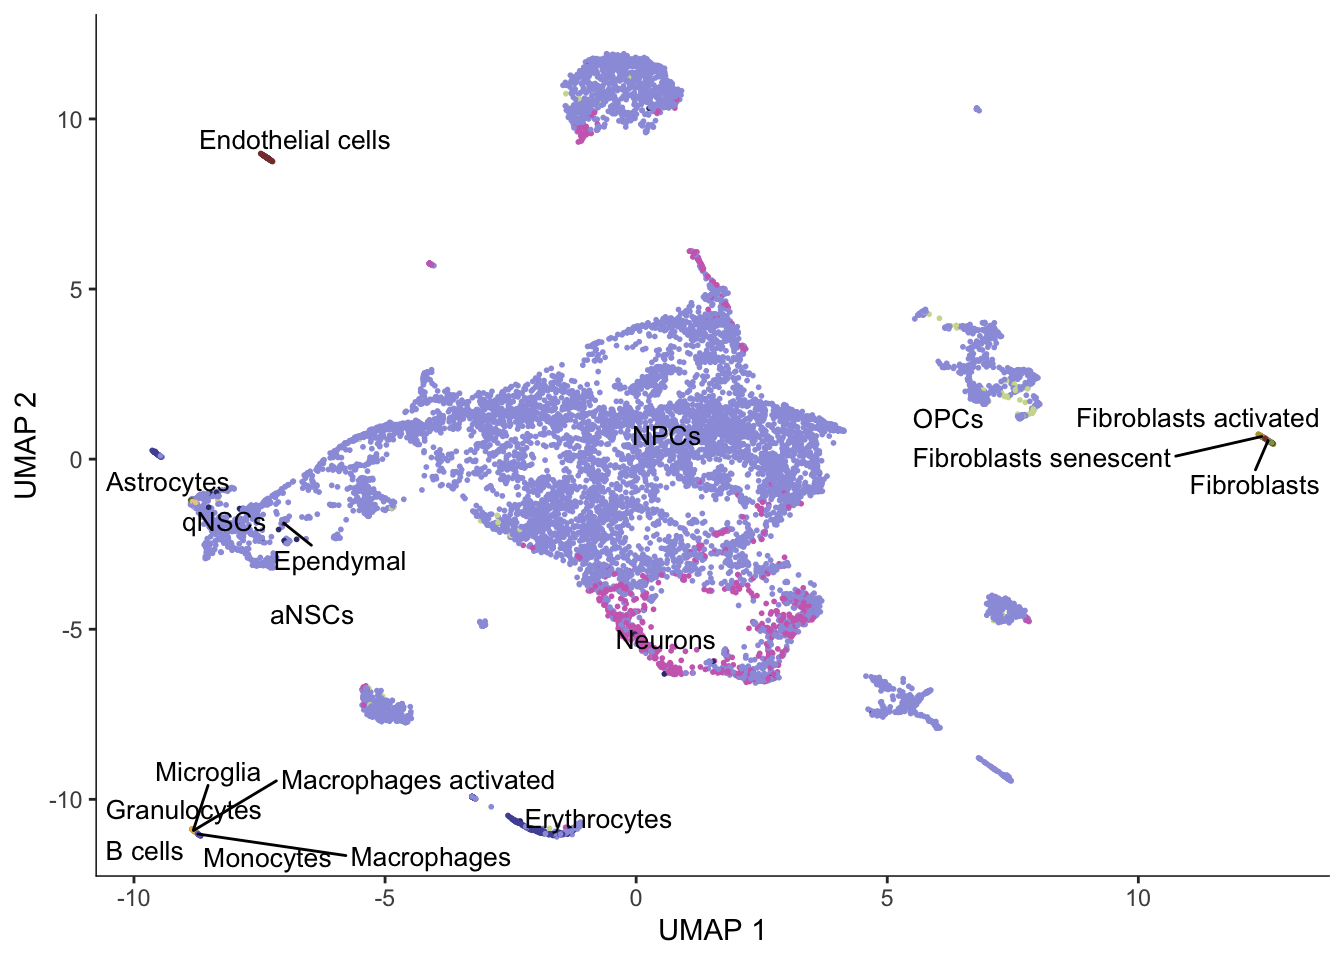
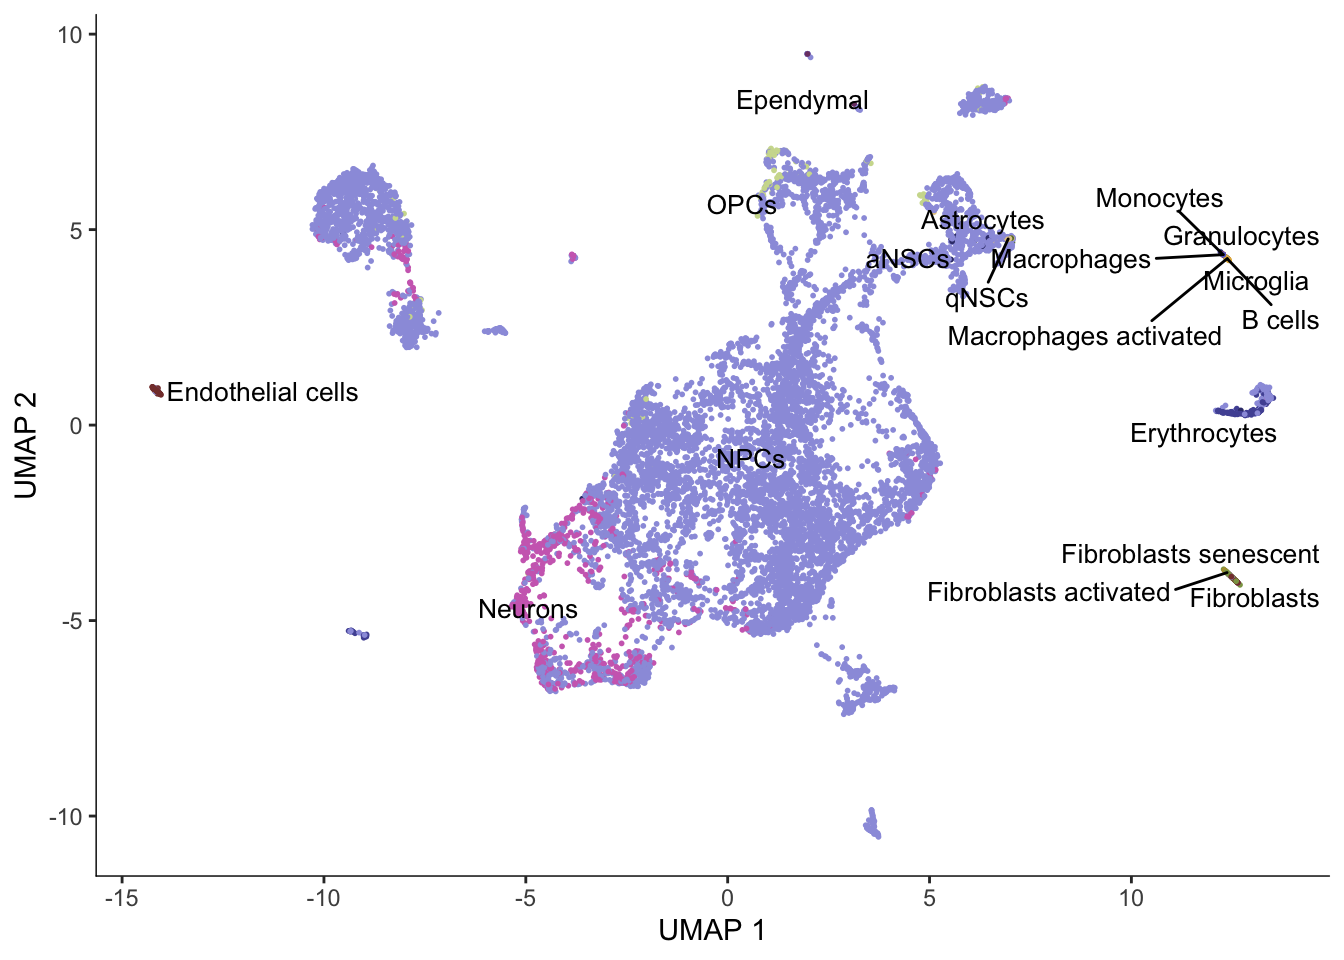
Build site.

diff --git a/docs/monocle3.html b/docs/monocle3.html
@@ -12,7 +12,7 @@
 
 <meta name="author" content="Lambda Moses" />
 
-<meta name="date" content="2019-07-23" />
+<meta name="date" content="2019-08-15" />
 
 <title>Monocle 3</title>
 
@@ -381,7 +381,7 @@ div.section {
 
 <h1 class="title toc-ignore">Monocle 3</h1>
 <h4 class="author">Lambda Moses</h4>
-<h4 class="date">2019-07-23</h4>
+<h4 class="date">2019-08-15</h4>
 
 </div>
 
@@ -406,7 +406,7 @@ div.section {
 <div class="tab-content">
 <div id="summary" class="tab-pane fade in active">
 <p>
-<strong>Last updated:</strong> 2019-07-23
+<strong>Last updated:</strong> 2019-08-15
 </p>
 <p>
 <strong>Checks:</strong> <span class="glyphicon glyphicon-ok text-success" aria-hidden="true"></span> 7 <span class="glyphicon glyphicon-exclamation-sign text-danger" aria-hidden="true"></span> 0
@@ -497,10 +497,10 @@ This reproducible <a href="http://rmarkdown.rstudio.com">R Markdown</a> analysis
 <div class="panel panel-default">
 <div class="panel-heading">
 <p class="panel-title">
-<a data-toggle="collapse" data-parent="#workflowr-checks" href="#strongRepositoryversionstrongahrefhttpsgithubcomBUStoolsBUSnotebooksRtree5cb1030ac3cbc417d0f67f553ee3a7e7044a8d9ctargetblank5cb1030a"> <span class="glyphicon glyphicon-ok text-success" aria-hidden="true"></span> <strong>Repository version:</strong> <a href="https://github.com/BUStools/BUS_notebooks_R/tree/5cb1030ac3cbc417d0f67f553ee3a7e7044a8d9c" target="_blank">5cb1030</a> </a>
+<a data-toggle="collapse" data-parent="#workflowr-checks" href="#strongRepositoryversionstrongahrefhttpsgithubcomBUStoolsBUSnotebooksRtree1cafb2f3e721c2d7ac26ed796a88e111ac19fa33targetblank1cafb2fa"> <span class="glyphicon glyphicon-ok text-success" aria-hidden="true"></span> <strong>Repository version:</strong> <a href="https://github.com/BUStools/BUS_notebooks_R/tree/1cafb2f3e721c2d7ac26ed796a88e111ac19fa33" target="_blank">1cafb2f</a> </a>
 </p>
 </div>
[2 lines of base64/hex data omitted]
 <div class="panel-body">
 <p>
 Great! You are using Git for version control. Tracking code development and connecting the code version to the results is critical for reproducibility. The version displayed above was the version of the Git repository at the time these results were generated. <br><br> Note that you need to be careful to ensure that all relevant files for the analysis have been committed to Git prior to generating the results (you can use <code>wflow_publish</code> or <code>wflow_git_commit</code>). workflowr only checks the R Markdown file, but you know if there are other scripts or data files that it depends on. Below is the status of the Git repository when the results were generated:
@@ -510,6 +510,7 @@ Ignored files:
     Ignored:    .Rhistory
     Ignored:    .Rproj.user/
     Ignored:    BUS_notebooks_R.Rproj
+    Ignored:    analysis/figure/
     Ignored:    data/whitelist_v3.txt.gz
     Ignored:    output/out_pbmc1k/
 
@@ -554,6 +555,57 @@ Message
 </tr>
 </thead>
 <tbody>
+<tr>
+<td>
+Rmd
+</td>
+<td>
+<a href="https://github.com/BUStools/BUS_notebooks_R/blob/1cafb2f3e721c2d7ac26ed796a88e111ac19fa33/analysis/monocle3.Rmd" target="_blank">1cafb2f</a>
+</td>
+<td>
+Lambda Moses
+</td>
+<td>
+2019-08-16
+</td>
+<td>
+Rebuilt with Ensembl 97
+</td>
+</tr>
+<tr>
+<td>
+Rmd
+</td>
+<td>
+<a href="https://github.com/BUStools/BUS_notebooks_R/blob/32adc25610d14f630f42aee00ed3a87a337d529a/analysis/monocle3.Rmd" target="_blank">32adc25</a>
+</td>
+<td>
+Lior Pachter
+</td>
+<td>
+2019-07-26
+</td>
+<td>
+Update monocle3.Rmd
+</td>
+</tr>
+<tr>
+<td>
+html
+</td>
+<td>
+<a href="https://rawcdn.githack.com/BUStools/BUS_notebooks_R/5ebb54700e7490de6057bd48b8d7e6eb254901f8/docs/monocle3.html" target="_blank">5ebb547</a>
+</td>
+<td>
+Lambda Moses
+</td>
+<td>
+2019-07-23
+</td>
+<td>
+Build site.
+</td>
+</tr>
 <tr>
 <td>
 Rmd
@@ -648,7 +700,7 @@ Monocle 3 notebook
 </div>
 <div id="introduction" class="section level1">
 <h1>Introduction</h1>
-<p>This notebook does pseudotime analysis of the <a href="https://support.10xgenomics.com/single-cell-gene-expression/datasets/3.0.0/neuron_10k_v3">10x 10k neurons from an E18 mouse</a> with <a href="https://cole-trapnell-lab.github.io/monocle3/">Monocle 3</a>. Please refer to the <a href="https://cole-trapnell-lab.github.io/monocle3/monocle3_docs/#installing-monocle">Monocle 3 website</a> for installation instruction. Gdal is required for Monocle 3 due to the <code>sf</code> dependency. The Python package <code>louvain</code> (which requires Python <code>igraph</code>, which requires compilation) is recommended, though not strictly required.</p>
+<p>This notebook does pseudotime analysis of the <a href="https://support.10xgenomics.com/single-cell-gene-expression/datasets/3.0.0/neuron_10k_v3">10x 10k neurons from an E18 mouse</a> using <a href="https://cole-trapnell-lab.github.io/monocle3/">Monocle 3</a>, and starting with the <a href="https://www.kallistobus.tools/">kallisto | bustools workflow</a>. Please refer to the <a href="https://cole-trapnell-lab.github.io/monocle3/monocle3_docs/#installing-monocle">Monocle 3 website</a> for installation instruction. Gdal is required for Monocle 3 due to the <code>sf</code> dependency. The Python package <code>louvain</code> (which requires Python <code>igraph</code>, which requires compilation) is recommended, though not strictly required.</p>
 <p>Monocle 3 has a few improvements compared to Monocle 2: Monocle 3 infers trajectory much faster, supports partitioning of the data into separate trajectories in case of different cell lineages, supports large datasets on disk, allows cycles in the trajectory, and supports 3D plotting. Monocle 3 has been used on over 2 million cells for the <a href="https://www.nature.com/articles/s41586-019-0969-x?WT.ec_id=NATURE-201902&amp;sap-outbound-id=3D6B78CB95C498488E0AB2A140F1B7A311607DA1">Mouse Organogenesis Cell Atlas (MOCA)</a>.</p>
 <p>The gene count matrix of the 10k neuron dataset has already been generated with the kallisto | bustools pipeline and filtered for the <a href="https://bustools.github.io/BUS_notebooks_R/monocle2.html">Monocle 2 notebook</a>. Cell types have also been annotated with <code>SingleR</code> in that notebook. Please refer to the first 3 main sections of that notebook for instructions on how to use kallisto | bustools, remove empty droplets, and annotate cell types. So this notebook will start with Monocle 3 analysis right away.</p>
 <p>The package <code>biomaRt</code> is from Bioconductor. <code>BUSpaRse</code> and <code>monocle3</code> are on GitHub. Packages <code>tidyverse</code> and <code>ggsci</code> (just for the D3 palette) are on CRAN.</p>
@@ -661,52 +713,56 @@ library(ggsci)</code></pre>
 <div id="create-a-cell_data_set-object" class="section level1">
 <h1>Create a <code>cell_data_set</code> object</h1>
 <p>The filtered gene count matrix and the cell annotation were saved from the Monocle 2 notebook.</p>
-<pre class="r"><code>annot &lt;- readRDS(&quot;./output/neuron10k/cell_types.rds&quot;)
+<pre class="r"><code>annot &lt;- readRDS(&quot;./output/neuron10k/cell_type.rds&quot;)
 mat_filtered &lt;- readRDS(&quot;./output/neuron10k/mat_filtered.rds&quot;)</code></pre>
 <p>Just to show the structures of those 2 objects:</p>
 <pre class="r"><code>dim(mat_filtered)</code></pre>
-<pre><code>[1] 23342 11031</code></pre>
+<pre><code>[1] 23516 11037</code></pre>
 <pre class="r"><code>class(mat_filtered)</code></pre>
 <pre><code>[1] &quot;dgCMatrix&quot;
 attr(,&quot;package&quot;)
 [1] &quot;Matrix&quot;</code></pre>
 <p>Row names are Ensembl gene IDs.</p>
 <pre class="r"><code>head(rownames(mat_filtered))</code></pre>
-<pre><code>[1] &quot;ENSMUSG00000094619.2&quot;  &quot;ENSMUSG00000095646.1&quot;  &quot;ENSMUSG00000073406.10&quot;
-[4] &quot;ENSMUSG00000079491.9&quot;  &quot;ENSMUSG00000046808.17&quot; &quot;ENSMUSG00000092300.7&quot; </code></pre>
+<pre><code>[1] &quot;ENSMUSG00000094619.2&quot;  &quot;ENSMUSG00000095646.1&quot;  &quot;ENSMUSG00000092401.3&quot; 
+[4] &quot;ENSMUSG00000109389.1&quot;  &quot;ENSMUSG00000092212.3&quot;  &quot;ENSMUSG00000079293.11&quot;</code></pre>
 <pre class="r"><code>head(colnames(mat_filtered))</code></pre>
 <pre><code>[1] &quot;AAACCCACACGCGGTT&quot; &quot;AAACCCACAGCATACT&quot; &quot;AAACCCACATACCATG&quot;
 [4] &quot;AAACCCAGTCGCACAC&quot; &quot;AAACCCAGTGCACATT&quot; &quot;AAACCCAGTGGTAATA&quot;</code></pre>
 <pre class="r"><code>str(annot)</code></pre>
 <pre><code>List of 10
- $ scores       : num [1:11031, 1:28] 0.188 0.192 0.183 0.265 0.186 ...
+ $ scores       : num [1:11037, 1:28] 0.188 0.194 0.182 0.267 0.187 ...
   ..- attr(*, &quot;dimnames&quot;)=List of 2
-  .. ..$ : chr [1:11031] &quot;AAACCCACACGCGGTT&quot; &quot;AAACCCACAGCATACT&quot; &quot;AAACCCACATACCATG&quot; &quot;AAACCCAGTCGCACAC&quot; ...
+  .. ..$ : chr [1:11037] &quot;AAACCCACACGCGGTT&quot; &quot;AAACCCACAGCATACT&quot; &quot;AAACCCACATACCATG&quot; &quot;AAACCCAGTCGCACAC&quot; ...
   .. ..$ : chr [1:28] &quot;Adipocytes&quot; &quot;aNSCs&quot; &quot;Astrocytes&quot; &quot;Astrocytes activated&quot; ...
- $ labels       : chr [1:11031, 1] &quot;NPCs&quot; &quot;NPCs&quot; &quot;NPCs&quot; &quot;NPCs&quot; ...
+ $ labels       : chr [1:11037, 1] &quot;NPCs&quot; &quot;NPCs&quot; &quot;NPCs&quot; &quot;NPCs&quot; ...
   ..- attr(*, &quot;dimnames&quot;)=List of 2
-  .. ..$ : chr [1, 1:11031] &quot;AAACCCACACGCGGTT&quot; &quot;AAACCCACAGCATACT&quot; &quot;AAACCCACATACCATG&quot; &quot;AAACCCAGTCGCACAC&quot; ...
+  .. ..$ : chr [1, 1:11037] &quot;AAACCCACACGCGGTT&quot; &quot;AAACCCACAGCATACT&quot; &quot;AAACCCACATACCATG&quot; &quot;AAACCCAGTCGCACAC&quot; ...
   .. ..$ : NULL
- $ r            : num [1:11031, 1:358] 0.186 0.195 0.18 0.25 0.17 ...
+ $ r            : num [1:11037, 1:358] 0.187 0.197 0.179 0.251 0.171 ...
   ..- attr(*, &quot;dimnames&quot;)=List of 2
-  .. ..$ : chr [1:11031] &quot;AAACCCACACGCGGTT&quot; &quot;AAACCCACAGCATACT&quot; &quot;AAACCCACATACCATG&quot; &quot;AAACCCAGTCGCACAC&quot; ...
+  .. ..$ : chr [1:11037] &quot;AAACCCACACGCGGTT&quot; &quot;AAACCCACAGCATACT&quot; &quot;AAACCCACATACCATG&quot; &quot;AAACCCAGTCGCACAC&quot; ...
   .. ..$ : chr [1:358] &quot;ERR525589Aligned&quot; &quot;ERR525592Aligned&quot; &quot;SRR275532Aligned&quot; &quot;SRR275534Aligned&quot; ...
- $ pval         : Named num [1:11031] 0.0396 0.0582 0.0366 0.0107 0.0329 ...
-  ..- attr(*, &quot;names&quot;)= chr [1:11031] &quot;AAACCCACACGCGGTT&quot; &quot;AAACCCACAGCATACT&quot; &quot;AAACCCACATACCATG&quot; &quot;AAACCCAGTCGCACAC&quot; ...
- $ labels1      : chr [1:11031, 1] &quot;NPCs&quot; &quot;NPCs&quot; &quot;NPCs&quot; &quot;NPCs&quot; ...
+ $ pval         : Named num [1:11037] 0.0428 0.058 0.0383 0.0111 0.0327 ...
+  ..- attr(*, &quot;names&quot;)= chr [1:11037] &quot;AAACCCACACGCGGTT&quot; &quot;AAACCCACAGCATACT&quot; &quot;AAACCCACATACCATG&quot; &quot;AAACCCAGTCGCACAC&quot; ...
+ $ labels1      : chr [1:11037, 1] &quot;NPCs&quot; &quot;NPCs&quot; &quot;NPCs&quot; &quot;NPCs&quot; ...
   ..- attr(*, &quot;dimnames&quot;)=List of 2
-  .. ..$ : chr [1:11031] &quot;AAACCCACACGCGGTT&quot; &quot;AAACCCACAGCATACT&quot; &quot;AAACCCACATACCATG&quot; &quot;AAACCCAGTCGCACAC&quot; ...
+  .. ..$ : chr [1:11037] &quot;AAACCCACACGCGGTT&quot; &quot;AAACCCACAGCATACT&quot; &quot;AAACCCACATACCATG&quot; &quot;AAACCCAGTCGCACAC&quot; ...
   .. ..$ : NULL
- $ labels1.thres: chr [1:11031] &quot;NPCs&quot; &quot;X&quot; &quot;NPCs&quot; &quot;NPCs&quot; ...
- $ cell.names   : chr [1:11031] &quot;AAACCCACACGCGGTT&quot; &quot;AAACCCACAGCATACT&quot; &quot;AAACCCACATACCATG&quot; &quot;AAACCCAGTCGCACAC&quot; ...
+ $ labels1.thres: chr [1:11037] &quot;NPCs&quot; &quot;X&quot; &quot;NPCs&quot; &quot;NPCs&quot; ...
+ $ cell.names   : chr [1:11037] &quot;AAACCCACACGCGGTT&quot; &quot;AAACCCACAGCATACT&quot; &quot;AAACCCACATACCATG&quot; &quot;AAACCCAGTCGCACAC&quot; ...
  $ quantile.use : num 0.8
  $ types        : chr [1:358] &quot;Adipocytes&quot; &quot;Adipocytes&quot; &quot;Adipocytes&quot; &quot;Adipocytes&quot; ...
  $ method       : chr &quot;single&quot;</code></pre>
 <p>Since we will do differential expression and gene symbols are more human readable than Ensembl gene IDs, we will get the corresponding gene symbols from Ensembl.</p>
 <pre class="r"><code>gns &lt;- tr2g_ensembl(species = &quot;Mus musculus&quot;, use_gene_name = TRUE, 
-                    ensembl_version = 94)[,c(&quot;gene&quot;, &quot;gene_name&quot;)] %&gt;% 
+                    ensembl_version = 97)[,c(&quot;gene&quot;, &quot;gene_name&quot;)] %&gt;% 
   distinct()</code></pre>
 <pre><code>Querying biomart for transcript and gene IDs of Mus musculus</code></pre>
+<pre><code>Note: requested host was redirected from
+http://jul2019.archive.ensembl.org to https://www.ensembl.org:443/biomart/martservice</code></pre>
+<pre><code>This often occurs when connecting to the archive URL for the current Ensembl release</code></pre>
+<pre><code>You can check the current version number using listEnsemblArchives()</code></pre>
 <pre><code>Cache found</code></pre>
 <p>Just like how the <code>Seurat</code> workflow is centered around the <code>Seurat</code> object, Monocle 3 workflow is centered around the <code>cell_data_set</code> object. To create a <code>cell_data_set</code> object, we at least need the gene count matrix, and optionally need cell and gene metadata. Note that this is different from the <code>CellDataSet</code> object for Monocle 2. Cell metadata must have the column <code>cell</code>, for cell names or barcodes. Gene metadata must have the <code>id</code> column for gene ID (here Ensembl gene ID), and a column <code>gene_short_name</code>, for gene symbols, is recommended and is required for some functions. In addition, cell metadata must have cell names as row names and gene metadata must have gene IDs as gene names when initializing the <code>cell_data_set</code> object.</p>
 <pre class="r"><code>cell_meta &lt;- data.frame(cell = colnames(mat_filtered),
@@ -854,7 +910,7 @@ Lambda Moses
 </div>
 <p>Monocle 3 does Louvain clustering and partitions the dataset for separate trajectories based on Louvain clustering.</p>
 <pre class="r"><code>cds &lt;- cluster_cells(cds)
-plot_cells(cds, color_cells_by = &quot;partition&quot;, group_cells_by = &quot;partition&quot;,
+plot_cells(cds, color_cells_by = &quot;partition&quot;, group_cells_by = &quot;partition&quot;, 
            group_label_size = 4)</code></pre>
 <pre><code>No trajectory to plot. Has learn_graph() been called yet?</code></pre>
 <p><img src="figure/monocle3.Rmd/part-1.png" width="672" style="display: block; margin: auto;" /></p>
@@ -895,13 +951,56 @@ Lambda Moses
 </table>
 </div>
 </div>
+<pre class="r"><code>plot_cells(cds, color_cells_by = &quot;cluster&quot;, group_cells_by = &quot;cluster&quot;, 
+           group_label_size = 4)</code></pre>
+<pre><code>No trajectory to plot. Has learn_graph() been called yet?</code></pre>
+<p><img src="figure/monocle3.Rmd/unnamed-chunk-8-1.png" width="672" style="display: block; margin: auto;" /></p>
+<p>
+<button type="button" class="btn btn-default btn-xs btn-workflowr btn-workflowr-fig" data-toggle="collapse" data-target="#fig-unnamed-chunk-8-1">
+Past versions of unnamed-chunk-8-1.png
+</button>
+</p>
+<div id="fig-unnamed-chunk-8-1" class="collapse">
+<div class="table-responsive">
+<table class="table table-condensed table-hover">
+<thead>
+<tr>
+<th>
+Version
+</th>
+<th>
+Author
+</th>
+<th>
+Date
+</th>
+</tr>
+</thead>
+<tbody>
+<tr>
+<td>
+<a href="https://github.com/BUStools/BUS_notebooks_R/blob/002b84d7ef371d2c72be546fa303cbd0e6c2c971/docs/figure/monocle3.Rmd/unnamed-chunk-8-1.png" target="_blank">002b84d</a>
+</td>
+<td>
+Lambda Moses
+</td>
+<td>
+2019-07-23
+</td>
+</tr>
+</tbody>
+</table>
+</div>
+</div>
 </div>
 <div id="trajectory-inference" class="section level1">
 <h1>Trajectory inference</h1>
 <p>Monocle 3’s trajectory inference is inspired by PAGA.</p>
-<pre class="r"><code>cds &lt;- learn_graph(cds, verbose = FALSE)</code></pre>
-<pre><code>Warning in min(data_df$weight[data_df$weight &gt; 0]): no non-missing
-arguments to min; returning Inf</code></pre>
+<pre class="r"><code>cds &lt;- learn_graph(cds, verbose = FALSE, 
+                   learn_graph_control = list(minimal_branch_len = 7,
+                                              geodesic_distance_ratio = 0.5))</code></pre>
+<pre><code>Warning in louvain_clustering(data, pd[row.names(data), ], k = k, weight = weight, : RANN counts the point itself, k must be smaller than
+the total number of points - 1 (all other points) - 1 (itself)!</code></pre>
 <pre class="r"><code>plot_cells(cds, color_cells_by = &quot;cell_type&quot;, label_groups_by_cluster = FALSE,
            group_label_size = 3.5, graph_label_size = 2) +
   scale_color_d3(palette = &quot;category20b&quot;)</code></pre>
@@ -989,7 +1088,7 @@ Lambda Moses
 <p>For the trajectory for which pseudotime is computed, Monocle 3 can find genes differentially expressed along the trajectory.</p>
 <pre class="r"><code>de_res &lt;- graph_test(cds, neighbor_graph = &quot;principal_graph&quot;, cores = 3)</code></pre>
 <p>These are some of the most significant genes differentially expressed along the trajectory.</p>
-<pre class="r"><code>genes_plt &lt;- c(&quot;mt-Nd6&quot;, &quot;Actr1a&quot;, &quot;Ss18&quot;, &quot;Hspa12a&quot;)
+<pre class="r"><code>genes_plt &lt;- c(&quot;Ube2c&quot;, &quot;Mrps12&quot;, &quot;Hspa12a&quot;, &quot;Igfbp3&quot;)
 plot_cells(cds, genes = genes_plt,
            show_trajectory_graph = FALSE,
            label_cell_groups = FALSE,
@@ -1042,7 +1141,7 @@ Lambda Moses
 <pre class="r"><code>sessionInfo()</code></pre>
 <pre><code>R version 3.6.1 (2019-07-05)
 Platform: x86_64-apple-darwin15.6.0 (64-bit)
-Running under: macOS Mojave 10.14.5
+Running under: macOS Mojave 10.14.6
 
 Matrix products: default
 BLAS:   /Library/Frameworks/R.framework/Versions/3.6/Resources/lib/libRblas.0.dylib
@@ -1060,8 +1159,8 @@ other attached packages:
  [3] stringr_1.4.0               dplyr_0.8.3                
  [5] purrr_0.3.2                 readr_1.3.1                
  [7] tidyr_0.8.3                 tibble_2.1.3               
- [9] ggplot2_3.2.0               tidyverse_1.2.1            
-[11] BUSpaRse_0.99.18            biomaRt_2.41.6             
+ [9] ggplot2_3.2.1               tidyverse_1.2.1            
+[11] BUSpaRse_0.99.18            biomaRt_2.41.7             
 [13] monocle3_0.1.2              SingleCellExperiment_1.7.0 
 [15] SummarizedExperiment_1.15.5 DelayedArray_0.11.4        
 [17] BiocParallel_1.19.0         matrixStats_0.54.0         
@@ -1075,12 +1174,12 @@ loaded via a namespace (and not attached):
   [5] proxy_0.4-23             rstudioapi_0.10         
   [7] ggrepel_0.8.1            bit64_0.9-7             
   [9] AnnotationDbi_1.47.0     lubridate_1.7.4         
- [11] xml2_1.2.0               codetools_0.2-16        
- [13] knitr_1.23               zeallot_0.1.0           
+ [11] xml2_1.2.2               codetools_0.2-16        
+ [13] knitr_1.24               zeallot_0.1.0           
  [15] jsonlite_1.6             workflowr_1.4.0         
  [17] Rsamtools_2.1.3          broom_0.5.2             
  [19] dbplyr_1.4.2             uwot_0.1.3              
- [21] compiler_3.6.1           httr_1.4.0              
+ [21] compiler_3.6.1           httr_1.4.1              
  [23] backports_1.1.4          assertthat_0.2.1        
  [25] Matrix_1.2-17            lazyeval_0.2.2          
  [27] cli_1.1.0                htmltools_0.3.6         
@@ -1088,20 +1187,20 @@ loaded via a namespace (and not attached):
  [31] igraph_1.2.4.1           gtable_0.3.0            
  [33] glue_1.3.1               GenomeInfoDbData_1.2.1  
  [35] RANN_2.6.1               reshape2_1.4.3          
- [37] rappdirs_0.3.1           Rcpp_1.0.1              
+ [37] rappdirs_0.3.1           Rcpp_1.0.2              
  [39] cellranger_1.1.0         vctrs_0.2.0             
- [41] Biostrings_2.53.1        nlme_3.1-140            
- [43] rtracklayer_1.45.1       DelayedMatrixStats_1.7.1
- [45] xfun_0.8                 plyranges_1.5.11        
+ [41] Biostrings_2.53.2        nlme_3.1-141            
+ [43] rtracklayer_1.45.2       DelayedMatrixStats_1.7.1
+ [45] xfun_0.8                 plyranges_1.5.12        
  [47] rvest_0.3.4              irlba_2.3.3             
  [49] ensembldb_2.9.2          XML_3.98-1.20           
  [51] zlibbioc_1.31.0          scales_1.0.0            
  [53] BSgenome_1.53.0          hms_0.5.0               
  [55] ProtGenerics_1.17.2      AnnotationFilter_1.9.0  
- [57] yaml_2.2.0               curl_3.3                
+ [57] yaml_2.2.0               curl_4.0                
  [59] memoise_1.1.0            gridExtra_2.3           
- [61] stringi_1.4.3            RSQLite_2.1.1           
- [63] GenomicFeatures_1.37.3   rlang_0.4.0             
+ [61] stringi_1.4.3            RSQLite_2.1.2           
+ [63] GenomicFeatures_1.37.4   rlang_0.4.0             
  [65] pkgconfig_2.0.2          bitops_1.0-6            
  [67] evaluate_0.14            lattice_0.20-38         
  [69] GenomicAlignments_1.21.4 labeling_0.3            
@@ -1111,7 +1210,7 @@ loaded via a namespace (and not attached):
  [77] generics_0.0.2           DBI_1.0.0               
  [79] pillar_1.4.2             haven_2.1.1             
  [81] whisker_0.3-2            withr_2.1.2             
- [83] RCurl_1.95-4.12          modelr_0.1.4            
+ [83] RCurl_1.95-4.12          modelr_0.1.5            
  [85] crayon_1.3.4             BiocFileCache_1.9.1     
  [87] rmarkdown_1.14           viridis_0.5.1           
  [89] progress_1.2.2           grid_3.6.1              
